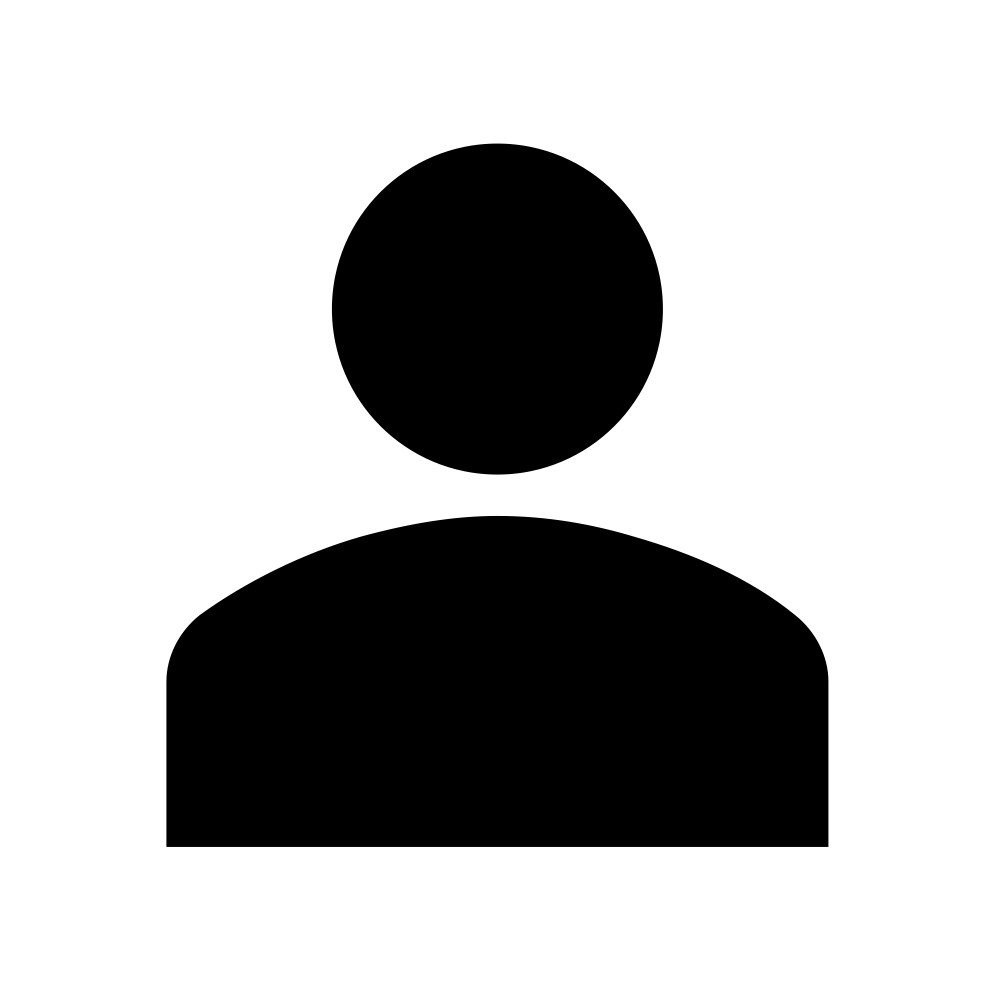
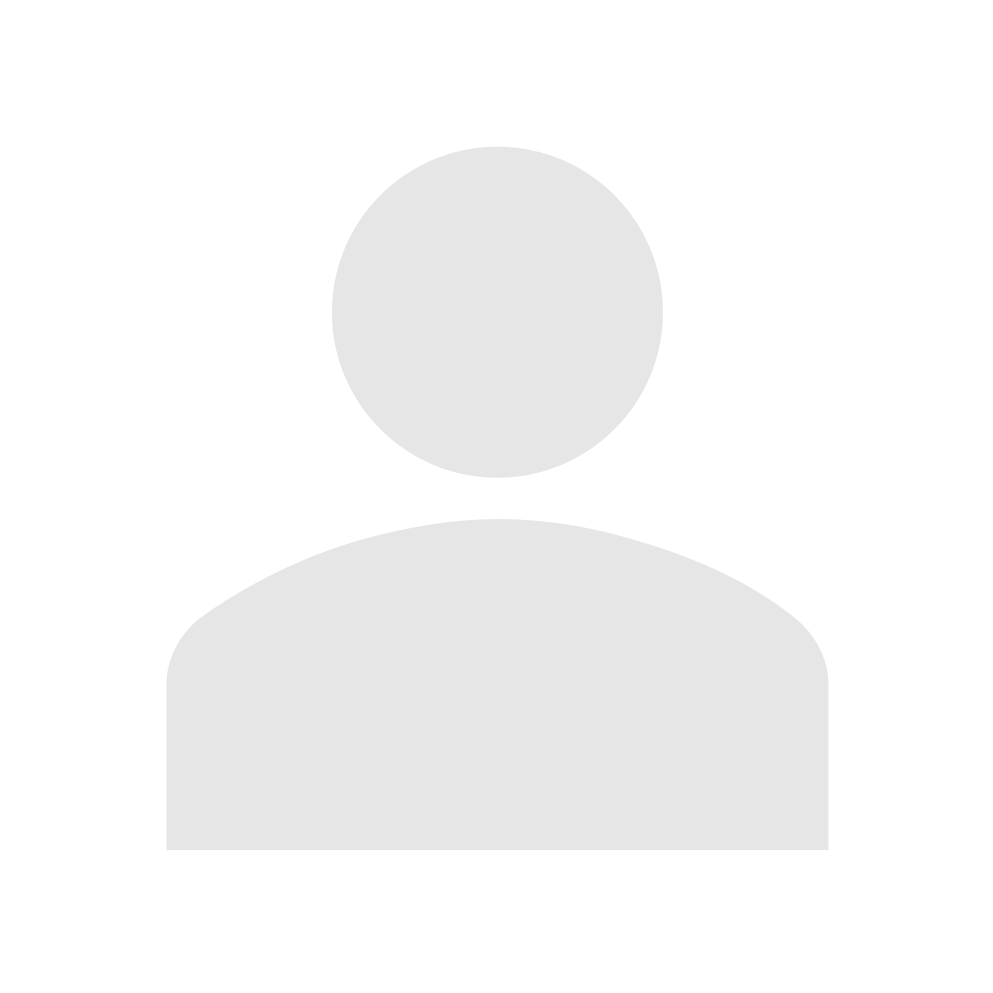
디폴트 프로필 이미지 색상 변경 / 프로필 사진 원형으로 변경, 구분선 추가

Changed region(s): [[0.1561, 0.5146, 0.8429, 0.8779], [0.3122, 0.1211, 0.6868, 0.4844]]

diff --git a/components/SideBar.js b/components/SideBar.js
@@ -3,7 +3,6 @@ import {
   View,
   List,
   ListItem,
-  Item,
   Text,
   Title
 } from 'native-base'
@@ -71,9 +70,12 @@ export default class SideBar extends React.Component {
 const styles = StyleSheet.create({
   profileImage: {
     marginTop: 0.1 * height,
-    width: 0.15 * height,
-    height: 0.15 * height,
-    alignSelf: 'center'
+    width: 0.16 * height,
+    height: 0.16 * height,
+    alignSelf: 'center',
+    borderRadius: 0.08 * height,
+    borderWidth: 2,
+    borderColor: '#dfe4ea'
   },
   name: {
     marginTop: 0.05 * height,
